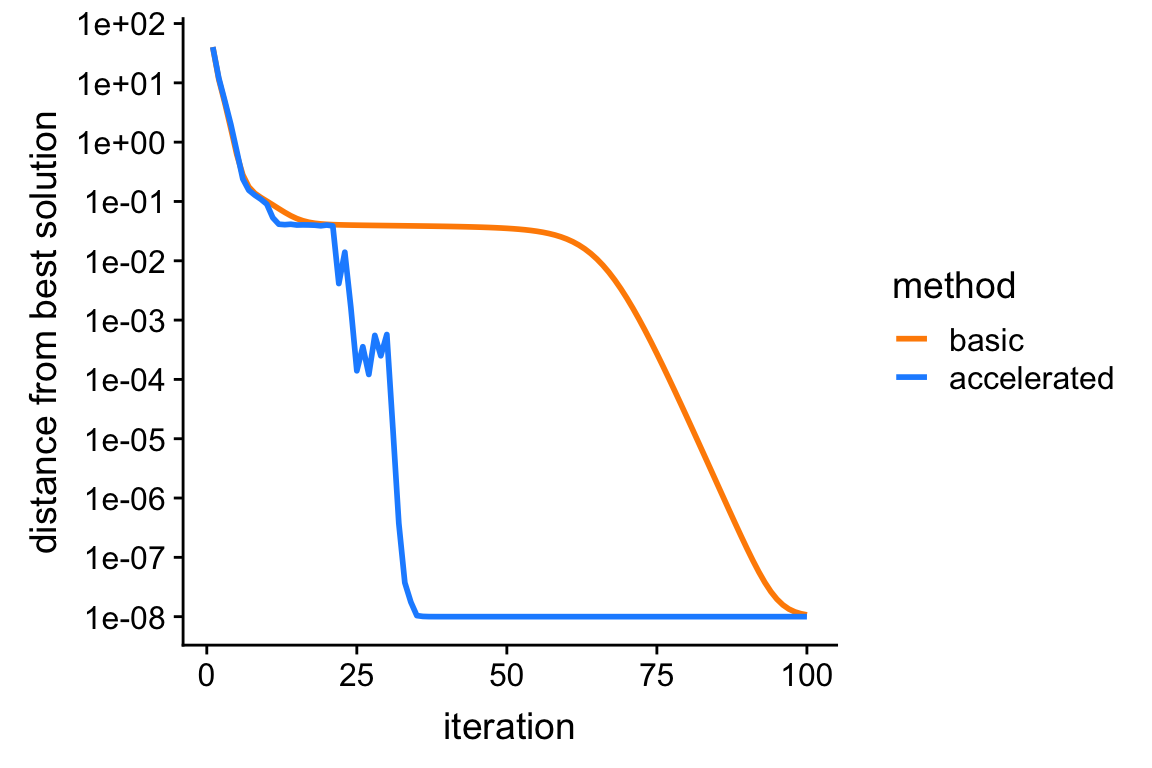
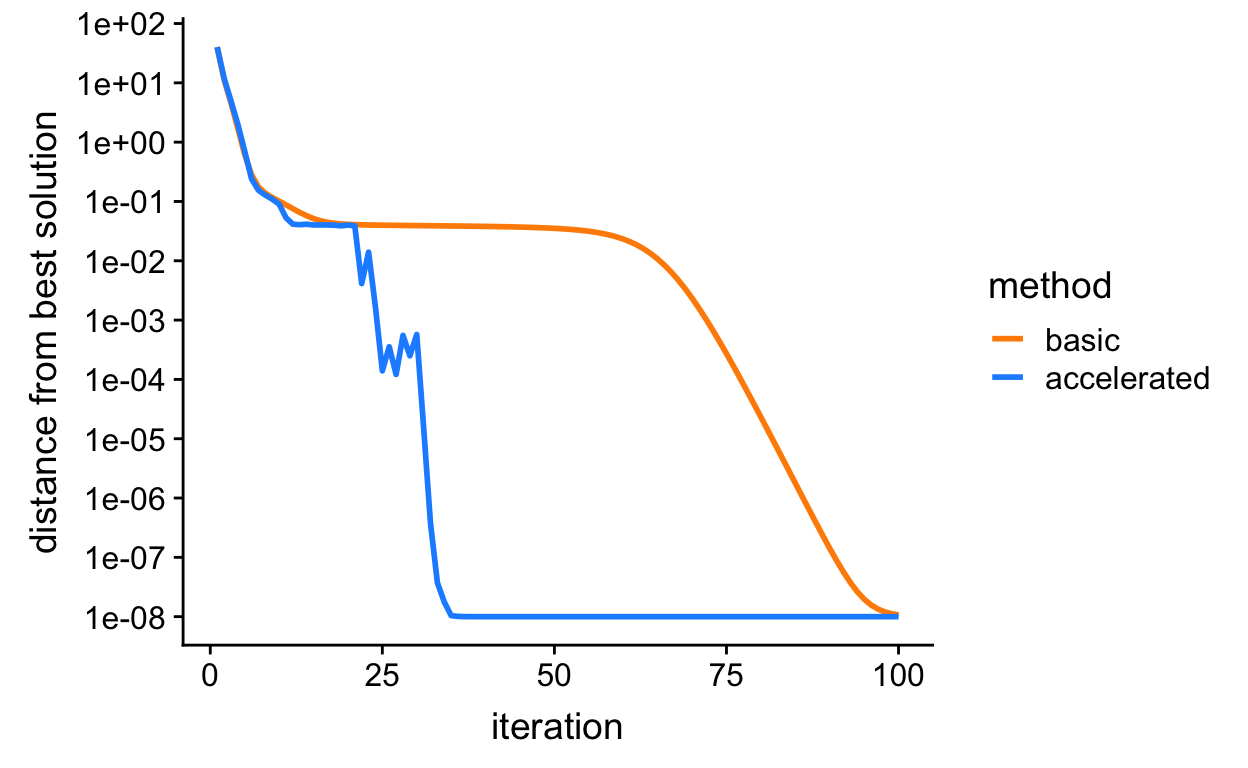
Adjusted fig. dimensions in linreg analysis.

diff --git a/docs/linreg.html b/docs/linreg.html
@@ -423,10 +423,10 @@ This reproducible <a href="http://rmarkdown.rstudio.com">R Markdown</a> analysis
 <div class="panel panel-default">
 <div class="panel-heading">
 <p class="panel-title">
-<a data-toggle="collapse" data-parent="#workflowr-checks" href="#strongRepositoryversionstrongahrefhttpsgithubcomstephenslabdaaremtreef7ea5b3a0dac5211e688e57bfff150062d2de610targetblankf7ea5b3a"> <span class="glyphicon glyphicon-ok text-success" aria-hidden="true"></span> <strong>Repository version:</strong> <a href="https://github.com/stephenslab/daarem/tree/f7ea5b3a0dac5211e688e57bfff150062d2de610" target="_blank">f7ea5b3</a> </a>
+<a data-toggle="collapse" data-parent="#workflowr-checks" href="#strongRepositoryversionstrongahrefhttpsgithubcomstephenslabdaaremtree98e78d8ff6a08c9fc1b04195b19071ae7f98d902targetblank98e78d8a"> <span class="glyphicon glyphicon-ok text-success" aria-hidden="true"></span> <strong>Repository version:</strong> <a href="https://github.com/stephenslab/daarem/tree/98e78d8ff6a08c9fc1b04195b19071ae7f98d902" target="_blank">98e78d8</a> </a>
 </p>
 </div>
[2 lines of base64/hex data omitted]
 <div class="panel-body">
 <p>
 Great! You are using Git for version control. Tracking code development and connecting the code version to the results is critical for reproducibility. The version displayed above was the version of the Git repository at the time these results were generated. <br><br> Note that you need to be careful to ensure that all relevant files for the analysis have been committed to Git prior to generating the results (you can use <code>wflow_publish</code> or <code>wflow_git_commit</code>). workflowr only checks the R Markdown file, but you know if there are other scripts or data files that it depends on. Below is the status of the Git repository when the results were generated:
@@ -470,6 +470,23 @@ Message
 </tr>
 </thead>
 <tbody>
+<tr>
+<td>
+Rmd
+</td>
+<td>
+<a href="https://github.com/stephenslab/daarem/blob/98e78d8ff6a08c9fc1b04195b19071ae7f98d902/analysis/linreg.Rmd" target="_blank">98e78d8</a>
+</td>
+<td>
+Peter Carbonetto
+</td>
+<td>
+2019-06-20
+</td>
+<td>
+wflow_publish(“linreg.Rmd”)
+</td>
+</tr>
 <tr>
 <td>
 html
@@ -611,7 +628,7 @@ y &lt;- y - mean(y)</code></pre>
 f1  &lt;- ridge.objective(X,y,fit1$b,s0)
 cat(sprintf(&quot;Computation took %0.2f seconds.\n&quot;,out[&quot;elapsed&quot;]))
 cat(sprintf(&quot;Objective value at solution is %0.12f.\n&quot;,f1))
-# Computation took 0.45 seconds.
+# Computation took 0.46 seconds.
 # Objective value at solution is -20.573760535831.</code></pre>
 </div>
 <div id="run-accelerated-co-ordinate-ascent-updates" class="section level2">
@@ -621,7 +638,7 @@ cat(sprintf(&quot;Objective value at solution is %0.12f.\n&quot;,f1))
 f2  &lt;- ridge.objective(X,y,fit2$b,s0)
 cat(sprintf(&quot;Computation took %0.2f seconds.\n&quot;,out[&quot;elapsed&quot;]))
 cat(sprintf(&quot;Objective value at solution is %0.12f.\n&quot;,f2))
-# Computation took 0.48 seconds.
+# Computation took 0.49 seconds.
 # Objective value at solution is -20.332771749786.</code></pre>
 <p>We see that the DAAREM solution is better (it has a higher posterior value).</p>
 </div>
@@ -692,14 +709,14 @@ w  &lt;- c(0.5,0.25,0.25)</code></pre>
 <p>Fit the mr-ash model by running 200 iterations of the basic co-ordinate ascent updates.</p>
 <pre class="r"><code>out &lt;- system.time(fit3 &lt;- mr_ash(X,y,b0,se,s0,w,numiter = 100))
 cat(sprintf(&quot;Computation took %0.2f seconds.\n&quot;,out[&quot;elapsed&quot;]))
-# Computation took 1.19 seconds.</code></pre>
+# Computation took 1.11 seconds.</code></pre>
 </div>
 <div id="run-accelerated-mr-ash-co-ordinate-ascent-updates" class="section level2">
 <h2>Run accelerated mr-ash co-ordinate ascent updates</h2>
 <p>Fit the mr-ash model again, this time using DAAREM to speed up the co-ordinate ascent updates.</p>
 <pre class="r"><code>out &lt;- system.time(fit4 &lt;- daar_mr_ash(X,y,b0,se,s0,w,numiter = 100))
 cat(sprintf(&quot;Computation took %0.2f seconds.\n&quot;,out[&quot;elapsed&quot;]))
-# Computation took 1.22 seconds.</code></pre>
+# Computation took 1.19 seconds.</code></pre>
 <p>Like the plot above, plot shows the improvement in the solution over time for the basic and accelated co-ordinate ascent algorithms for mr-ash. Both algorithms end up at the same solution, but the “accelerated” version indeed arrives at the solution much more quickly.</p>
 <pre class="r"><code>f    &lt;- max(c(fit3$value,fit4$value)) + 1e-8
 pdat &lt;- 
@@ -711,7 +728,7 @@ p &lt;- ggplot(pdat,aes(x = iter,y = dist,col = method)) +
   scale_color_manual(values = c(&quot;darkorange&quot;,&quot;dodgerblue&quot;)) +
   labs(x = &quot;iteration&quot;,y = &quot;distance from best solution&quot;)
 print(p)</code></pre>
-<p><img src="figure/linreg.Rmd/plot-iter-vs-mr-ash-objective-1.png" width="576" style="display: block; margin: auto;" /></p>
+<p><img src="figure/linreg.Rmd/plot-iter-vs-mr-ash-objective-1.png" width="624" style="display: block; margin: auto;" /></p>
 <p>
 <button type="button" class="btn btn-default btn-xs btn-workflowr btn-workflowr-fig" data-toggle="collapse" data-target="#fig-plot-iter-vs-mr-ash-objective-1">
 Past versions of plot-iter-vs-mr-ash-objective-1.png
